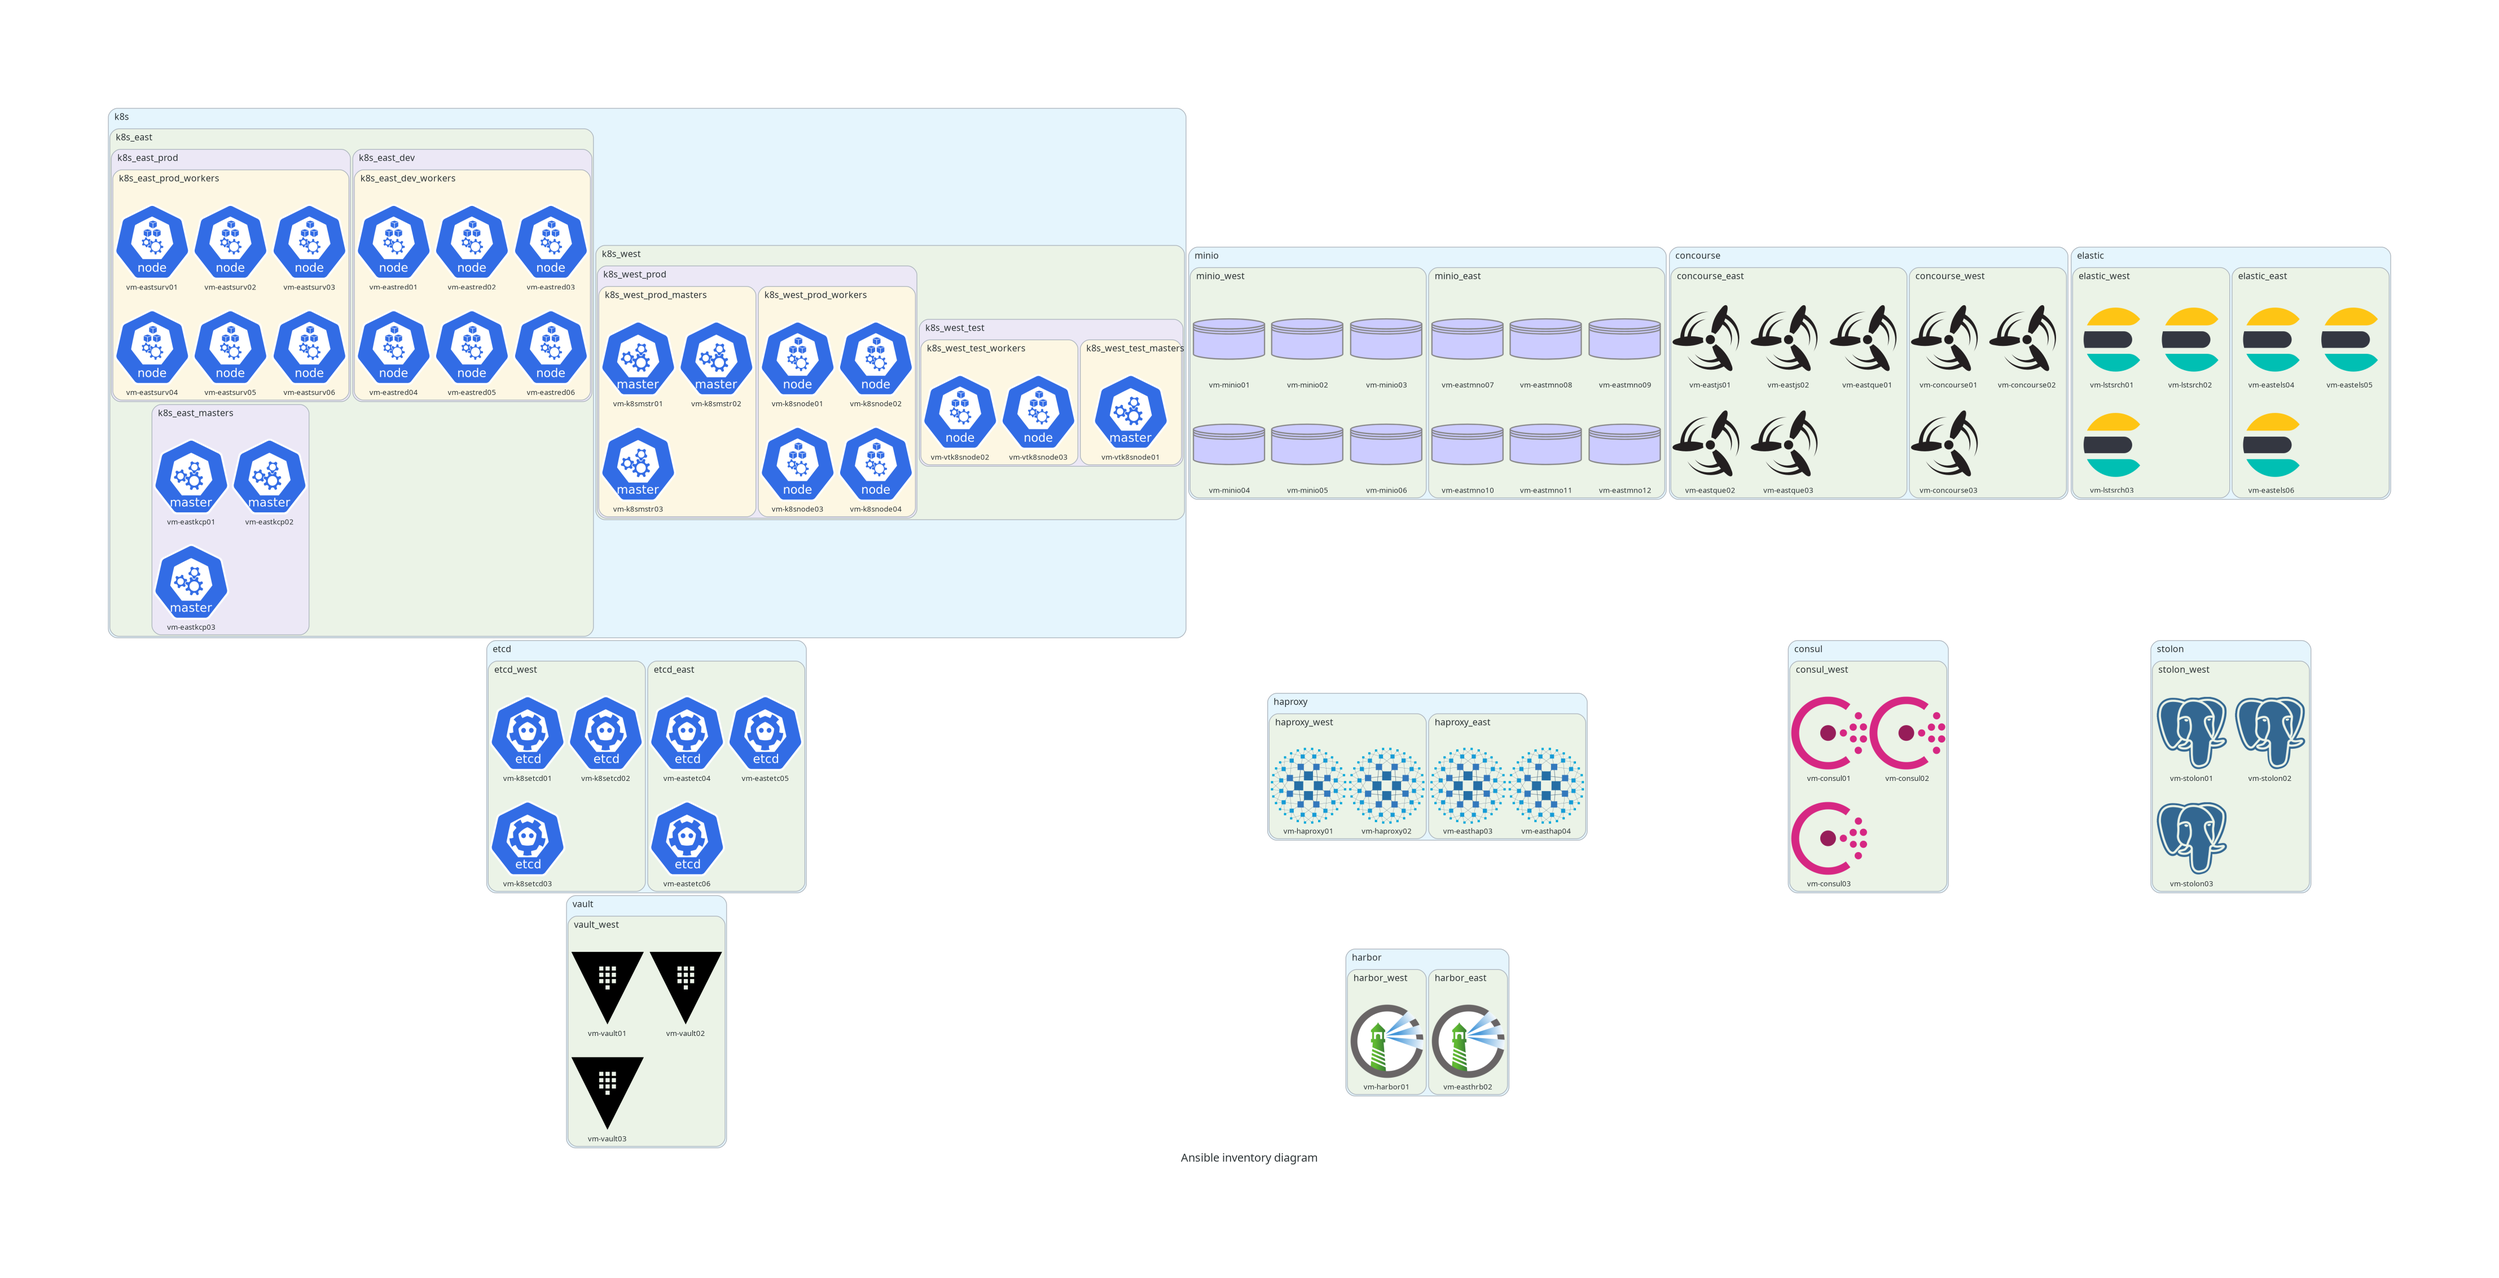
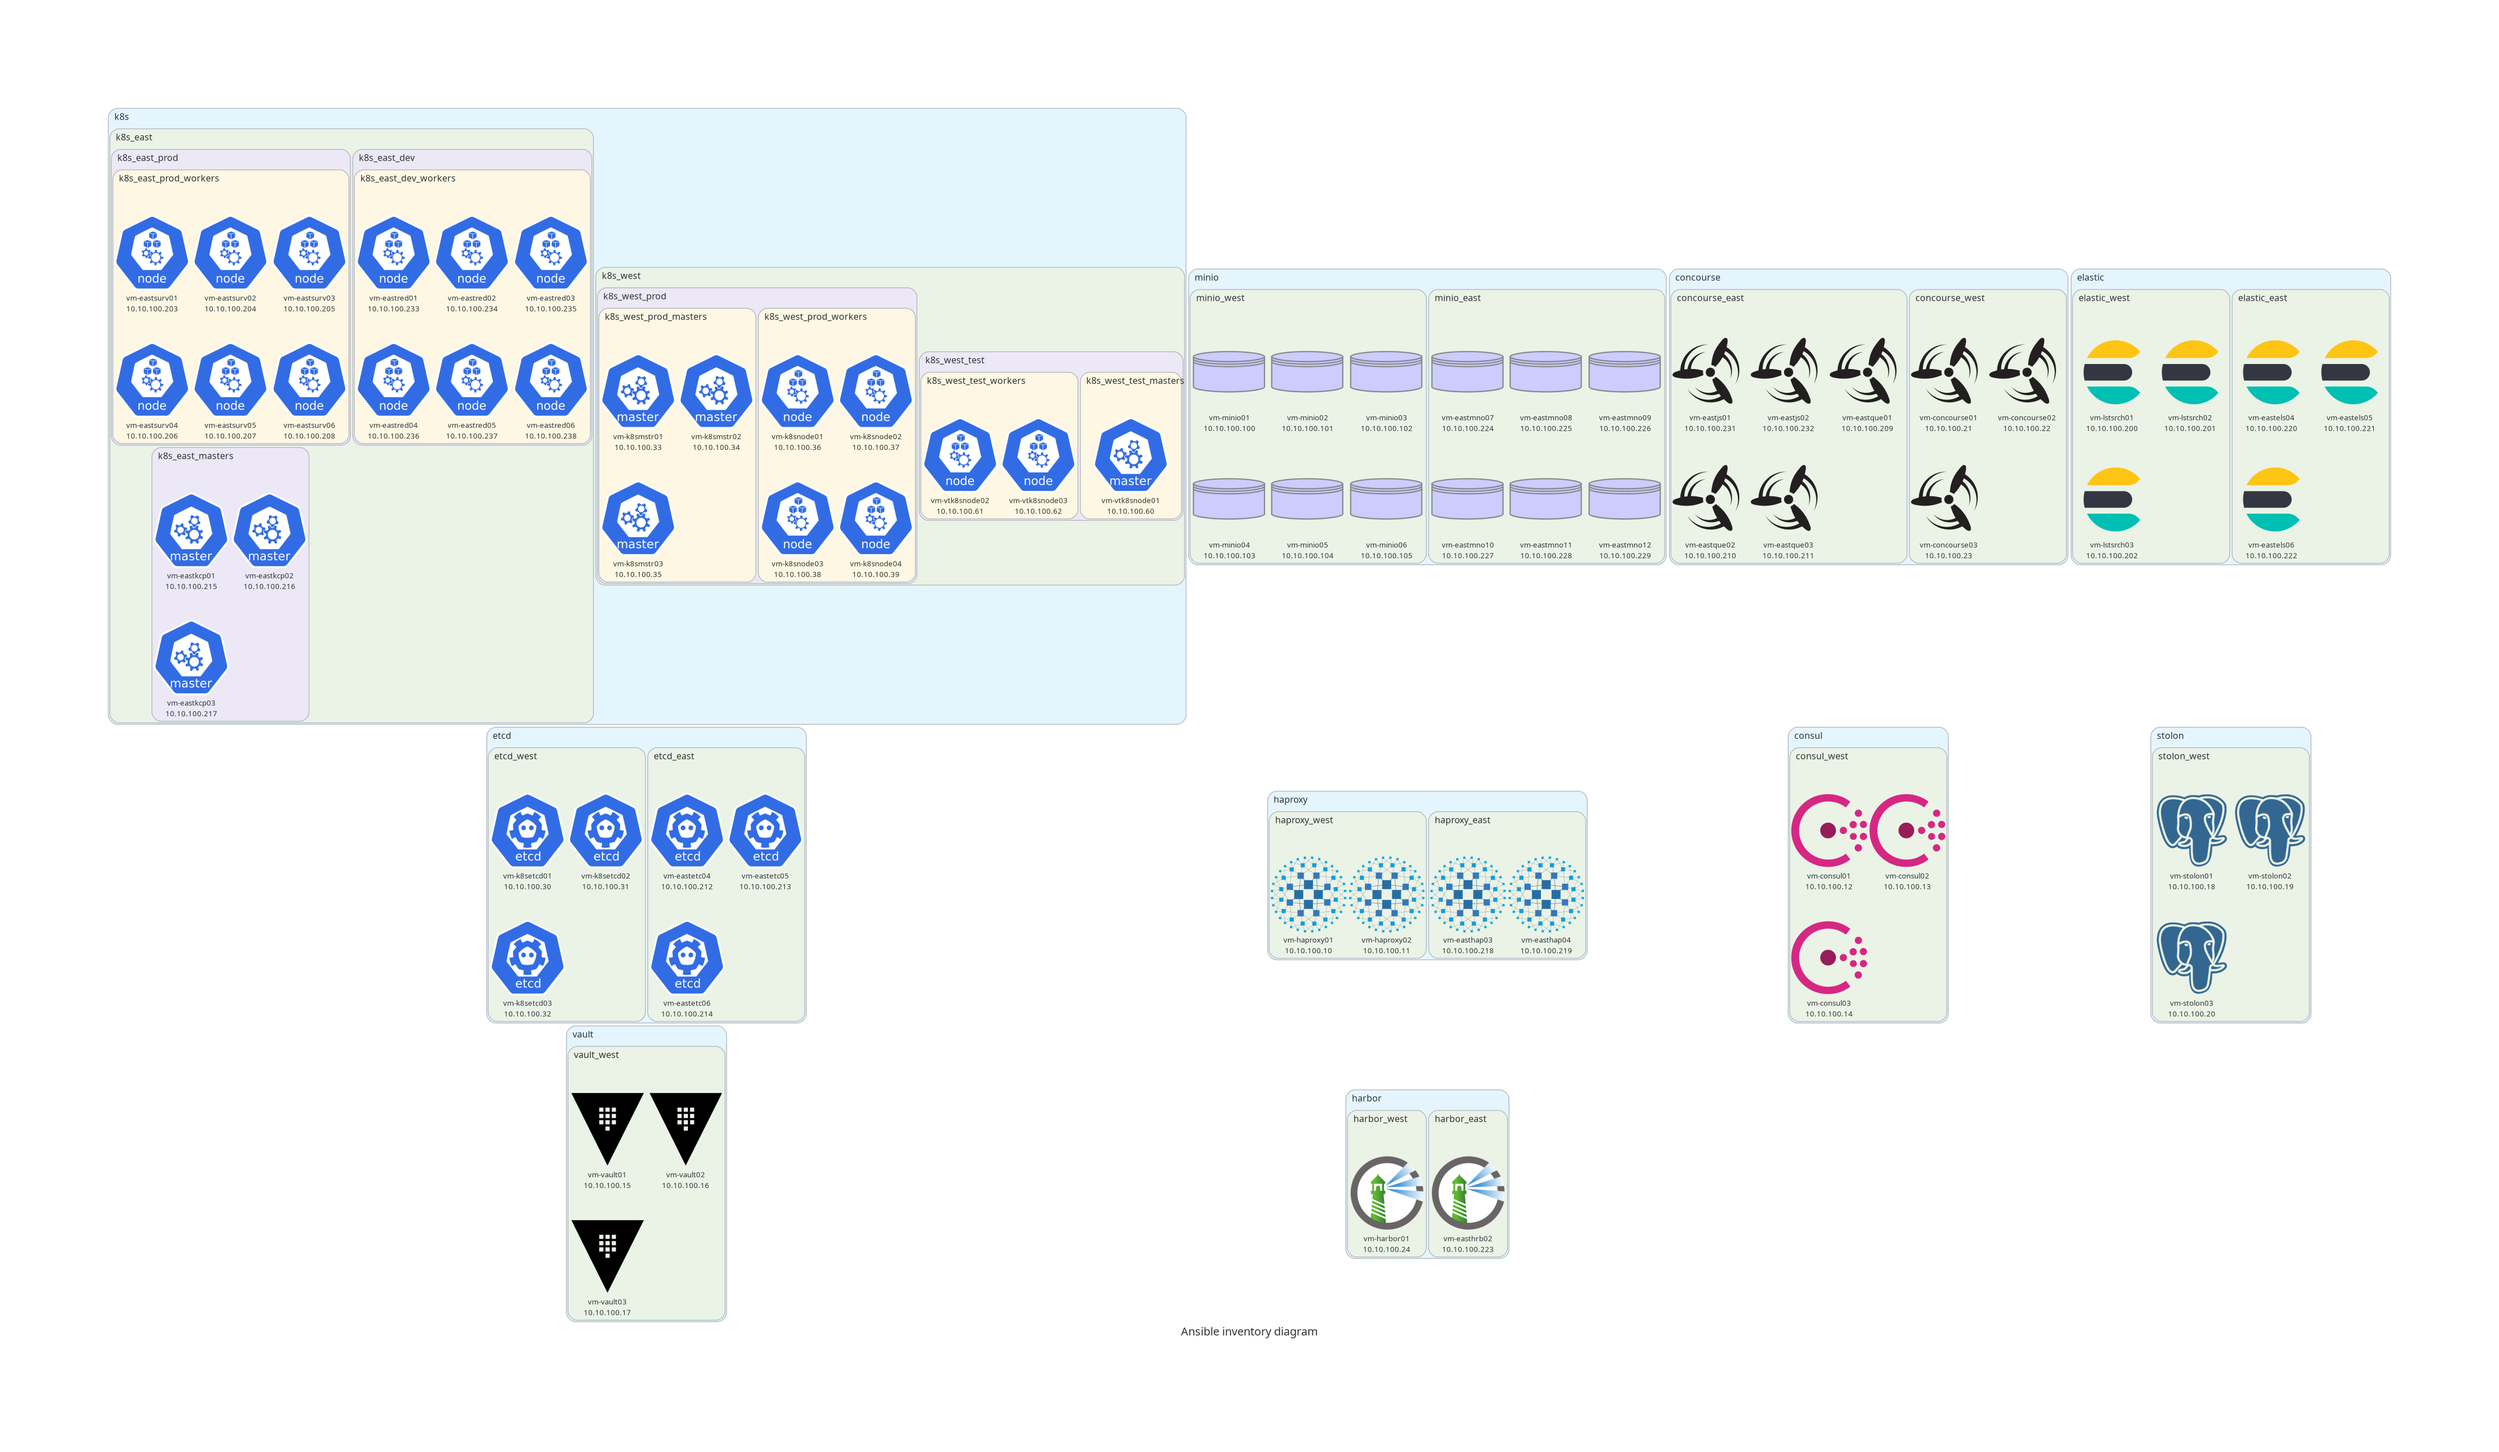
Add host ips to labels

diff --git a/diagram/graph.py b/diagram/graph.py
@@ -136,49 +136,50 @@ def _graph_recurse(cluster_title: str, group: AnsibleGroup) -> None:
         # Draw hosts if present
         group_name_lower = group.name.lower()
         for host in group.hosts:
+            label = f"{host.name}\n{host.host}"
             if (
                 "postgres" in group_name_lower
                 or "stolon" in group_name_lower
                 or "patroni" in group_name_lower
             ):
-                PostgreSQL(host.name)
+                PostgreSQL(label)
             elif "mysql" in group_name_lower:
-                Mssql(host.name)
+                Mssql(label)
             elif "elastic" in group_name_lower:
-                ElasticSearch(host.name)
+                ElasticSearch(label)
             elif "haproxy" in group_name_lower:
-                Haproxy(host.name)
+                Haproxy(label)
             elif "consul" in group_name_lower:
-                Consul(host.name)
+                Consul(label)
             elif "vault" in group_name_lower:
-                Vault(host.name)
+                Vault(label)
             elif "concourse" in group_name_lower:
-                ConcourseCI(host.name)
+                ConcourseCI(label)
             elif "harbor" in group_name_lower:
-                Harbor(host.name)
+                Harbor(label)
             elif "etcd" in group_name_lower:
-                ETCD(host.name)
+                ETCD(label)
             elif "kafka" in group_name_lower:
-                Kafka(host.name)
+                Kafka(label)
             elif "grafana" in group_name_lower:
-                Grafana(host.name)
+                Grafana(label)
             elif "prom" in group_name_lower:
-                Prometheus(host.name)
+                Prometheus(label)
             elif "nginx" in group_name_lower:
-                Nginx(host.name)
+                Nginx(label)
             elif "clickhouse" in group_name_lower:
-                Clickhouse(host.name)
+                Clickhouse(label)
             elif "k8s" in group_name_lower:
                 if "master" in group_name_lower:
-                    Master(host.name)
+                    Master(label)
                 else:
-                    Node(host.name)
+                    Node(label)
             elif "redis" in group_name_lower:
-                Redis(host.name)
+                Redis(label)
             # elif "minio" in group_name_lower:
-            #     Redis(host.name)
+            #     Redis(label)
             else:
-                DBDiagram(host.name)
+                DBDiagram(label)
 
         # Draw group children
         for child in group.children:

diff --git a/README.md b/README.md
@@ -29,7 +29,7 @@ ansible-inventory -i inventory/example.yml --list > inventory/example.json
 Once you have an outputted JSON inventory file you can run the script:
 
 ```bash
-python3 diagram/main.py
+python3 diagram/main.py -i inventory/example.json
 ```
 
 For instructions run
